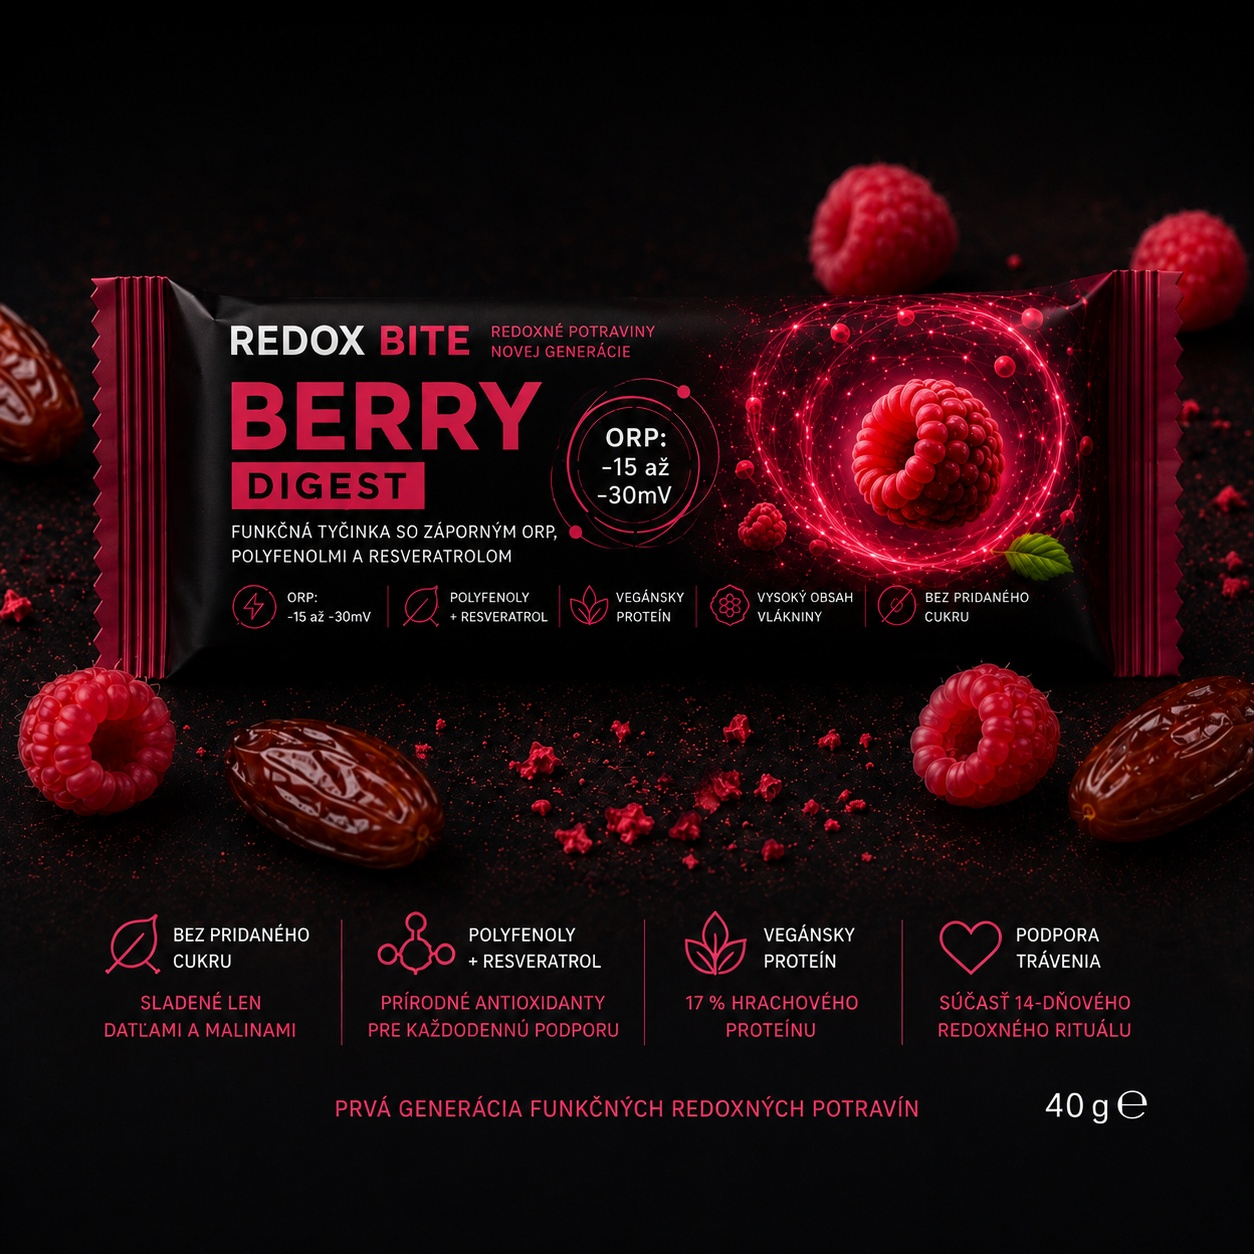
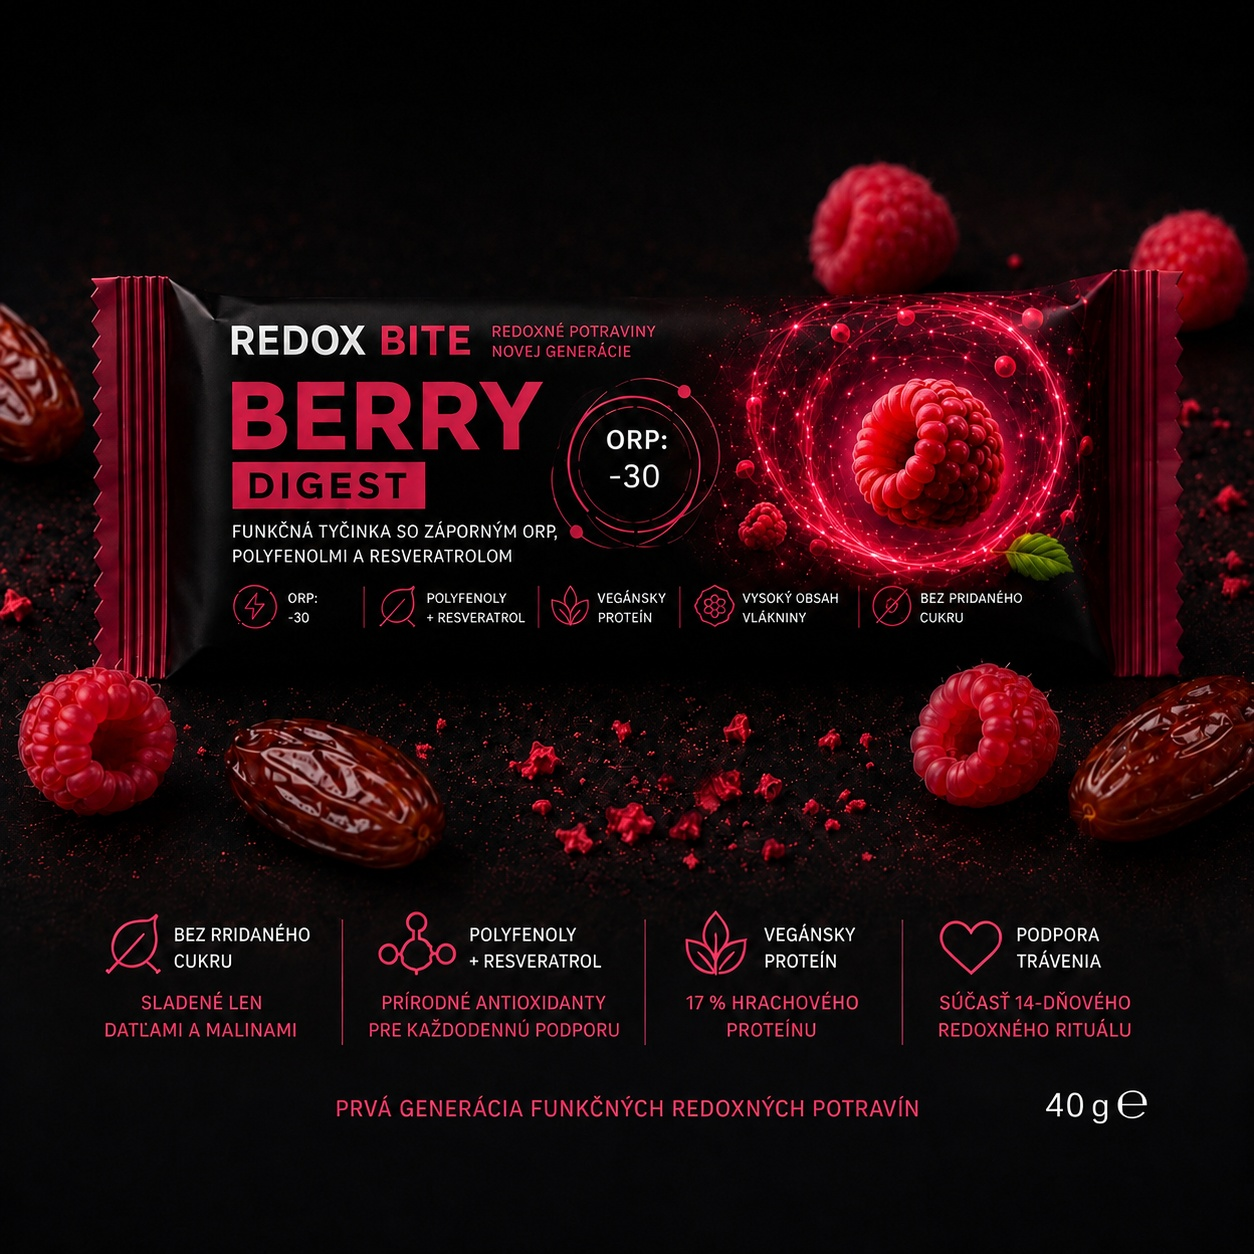
Update product photos to new Berry Digest packaging.

diff --git a/index.html b/index.html
@@ -85,11 +85,11 @@
       <div class="container">
         <div class="gallery-showcase">
           <figure class="gallery-item">
-            <img src="assets/berry-digest.jpg" alt="REDOX BITE Berry Digest — jedna tyčinka" loading="lazy">
+            <img src="assets/berry-digest.jpg?v=2" alt="REDOX BITE Berry Digest — jedna tyčinka" loading="lazy">
             <figcaption>Berry Digest — 1 tyčinka (40 g)</figcaption>
           </figure>
           <figure class="gallery-item">
-            <img src="assets/berry-digest-30pack.jpg" alt="REDOX BITE Berry Digest — výhodné balenie 30 tyčiniek" loading="lazy">
+            <img src="assets/berry-digest-30pack.jpg?v=2" alt="REDOX BITE Berry Digest — výhodné balenie 30 tyčiniek" loading="lazy">
             <figcaption>Výhodné balenie — 30 tyčiniek</figcaption>
           </figure>
         </div>
@@ -138,7 +138,7 @@
           <article class="product-card">
             <span class="product-badge">Novinka</span>
             <div class="product-image-wrap">
-              <img src="assets/berry-digest.jpg" alt="REDOX BITE Berry Digest" class="product-image" loading="lazy">
+              <img src="assets/berry-digest.jpg?v=2" alt="REDOX BITE Berry Digest" class="product-image" loading="lazy">
             </div>
             <h3>REDOX BITE Berry Digest</h3>
             <p class="product-desc">Funkčná redoxná tyčinka — 1 × 40 g. Podporuje bunkovú energiu a rovnováhu trávenia vďaka zápornému ORP.</p>
@@ -153,7 +153,7 @@
           <article class="product-card product-card-featured">
             <span class="product-badge">Novinka</span>
             <div class="product-image-wrap">
-              <img src="assets/berry-digest-30pack.jpg" alt="REDOX BITE Berry Digest výhodné balenie 30 tyčiniek" class="product-image" loading="lazy">
+              <img src="assets/berry-digest-30pack.jpg?v=2" alt="REDOX BITE Berry Digest výhodné balenie 30 tyčiniek" class="product-image" loading="lazy">
             </div>
             <h3>REDOX BITE Berry Digest — výhodné balenie</h3>
             <p class="product-desc">30 funkčných tyčiniek (30 × 40 g). Ideálne na kompletnú 14-dňovú kúru reštartu trávenia.</p>